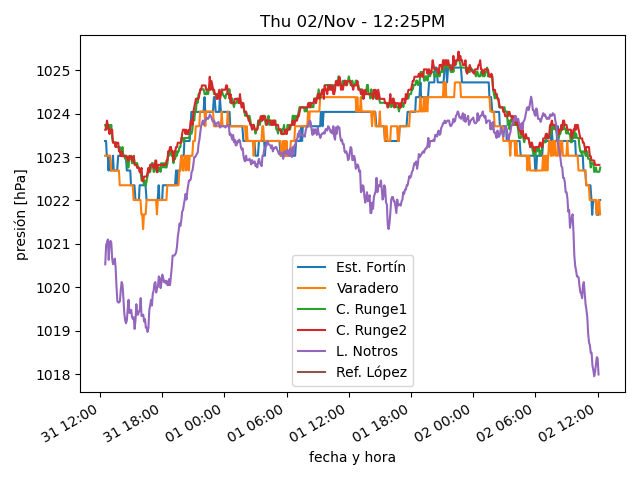
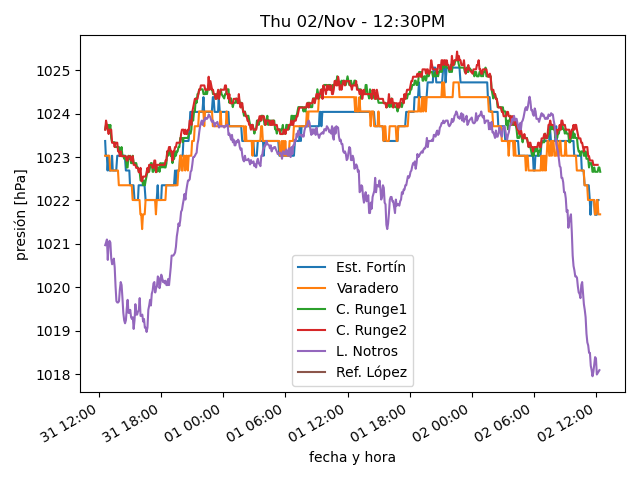
actualiza datos

diff --git a/estaciones/estacion3.html b/estaciones/estacion3.html
@@ -18,32 +18,32 @@
     </tr>
     <tr>
      <td class="stats_data">
-      12:14PM
+      12:24PM
      </td>
     </tr>
     <tr>
      <td class="stats_data">
-      8.9⁰C
+      9.1⁰C
      </td>
     </tr>
     <tr>
      <td class="stats_data">
-      4.2⁰C
+      4.5⁰C
      </td>
     </tr>
     <tr>
      <td class="stats_data">
-      72.3%
+      72.9%
      </td>
     </tr>
     <tr>
      <td class="stats_data">
-      1011.04hPa
+      1010.94hPa
      </td>
     </tr>
     <tr>
      <td class="stats_data">
-      8.4/11.2 km/hr NNW
+      8.0/11.1 km/hr NNW
      </td>
     </tr>
     <tr>
@@ -53,12 +53,12 @@
     </tr>
     <tr>
      <td class="stats_data">
-      12.0
+      13.0
      </td>
     </tr>
     <tr>
      <td class="stats_data">
-      1098.3 W/m²
+      1154.7 W/m²
      </td>
     </tr>
    </tbody>

diff --git a/estaciones/estacion2.html b/estaciones/estacion2.html
@@ -18,22 +18,22 @@
     </tr>
     <tr>
      <td class="stats_data">
-      12:14PM
+      12:24PM
      </td>
     </tr>
     <tr>
      <td class="stats_data">
-      9.1⁰C
+      9.6⁰C
      </td>
     </tr>
     <tr>
      <td class="stats_data">
-      5.4⁰C
+      5.7⁰C
      </td>
     </tr>
     <tr>
      <td class="stats_data">
-      77.5%
+      76.4%
      </td>
     </tr>
     <tr>
@@ -43,7 +43,7 @@
     </tr>
     <tr>
      <td class="stats_data">
-      11.2/12.9 km/hr WNW
+      14.2/16.9 km/hr NW
      </td>
     </tr>
     <tr>
@@ -58,7 +58,7 @@
     </tr>
     <tr>
      <td class="stats_data">
-      1009.9 W/m²
+      1012.1 W/m²
      </td>
     </tr>
    </tbody>

diff --git a/estaciones/estacion5.html b/estaciones/estacion5.html
@@ -18,27 +18,27 @@
     </tr>
     <tr>
      <td class="stats_data">
-      12:05PM
+      12:20PM
      </td>
     </tr>
     <tr>
      <td class="stats_data">
-      12.9⁰C
+      12.3⁰C
      </td>
     </tr>
     <tr>
      <td class="stats_data">
-      5.2⁰C
+      5.0⁰C
      </td>
     </tr>
     <tr>
      <td class="stats_data">
-      60.0%
+      61.0%
      </td>
     </tr>
     <tr>
      <td class="stats_data">
-      1020.56hPa
+      1020.66hPa
      </td>
     </tr>
     <tr>
